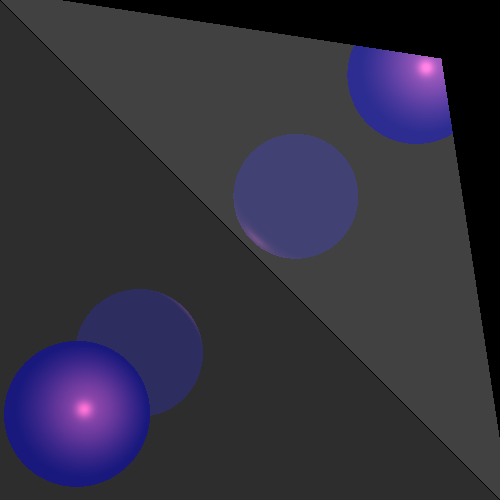
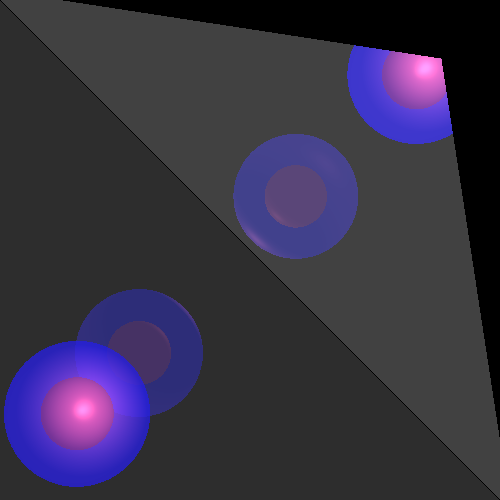
Merge branch 'master' of https://github.com/NoaAizenMageni/ISE5782_8965_0519

Changed region(s): [[0.0, 0.57, 0.42, 0.99], [0.45, 0.27, 0.72, 0.54], [0.69, 0.09, 0.93, 0.3]]

diff --git a/src/renderer/RayTracerBasic.java b/src/renderer/RayTracerBasic.java
@@ -145,17 +145,26 @@ public class RayTracerBasic extends RayTracerBase {
      * @return Color
      */
     private Color calcLocalEffects(GeoPoint geoPoint, Ray ray) {
-        Color color = geoPoint.geometry.getEmission();
+        //Color color = geoPoint.geometry.getEmission();
+        //לא היה
+        Color color = Color.BLACK;
         Vector v = ray.getDir();
         Vector n = geoPoint.geometry.getNormal(geoPoint.point);
         double nv = alignZero(n.dotProduct(v));
-        Material material = geoPoint.geometry.getMaterial();
+
+        //Material material = geoPoint.geometry.getMaterial();
+        Double3 kd = geoPoint.geometry.getMaterial().kD, ks = geoPoint.geometry.getMaterial().kS;
+        //לא היה לנו
+        int nShininess = geoPoint.geometry.getMaterial().nShininess;
+
         if (nv == 0)
-            return color;
+            return color.BLACK;
         for (LightSource lightSource : scene.getLights()) {
             Vector l = lightSource.getL(geoPoint.point);
             double nl = alignZero(n.dotProduct(l));
             if (nl * nv > 0) {
+                // לא היה לנו
+                Double3 ktr=transparency(geoPoint,l,n,nv,lightSource);
                 if (unshaded(geoPoint, lightSource, l, n, nv))//    //תיעוד
                 {
                     Color iL = lightSource.getIntensity(geoPoint.point);
@@ -166,7 +175,29 @@ public class RayTracerBasic extends RayTracerBase {
         }
         return color;
     }
-
+    /**
+     * private Color calcLocalEffects(GeoPoint point, Ray ray,Double3 k) {
+     *         Vector v = ray.getDirection();
+     *         Vector n = point._geometry.getNormal(point._point);
+     *         double nv = alignZero(n.dotProduct(v));
+     *         if (nv == 0) return Color.BLACK;
+     *
+     *         int nShininess = point._geometry.getMaterial().nShininess;
+     *         Double3 kd = point._geometry.getMaterial().Kd, ks = point._geometry.getMaterial().Ks;
+     *         Color color = Color.BLACK;
+     *         for (var lightSource : _scene.getLights()) {
+     *             Vector l = lightSource.getL(point._point);
+     *             double nl = alignZero(n.dotProduct(l));
+     *             if (nl * nv > 0) {
+     *                 Double3 ktr=transparency(point,l,n,nv,lightSource);
+     *                 if(!k.product(ktr).lowerThan(MIN_CALC_COLOR_K)){
+     *                     Color lightIntensity = lightSource.getIntensity(point._point).scale(ktr);
+     *                     color = color.add(calcDiffusive(kd, l, n, lightIntensity));
+     *                     color = color.add(calcSpecular(ks, l, n, v, nShininess, lightIntensity));
+     *             }}}
+     *         return color;
+     *     }
+     */
     /**
      * Calculate Flashes, a kind of reflection of light, on the surface
      *
